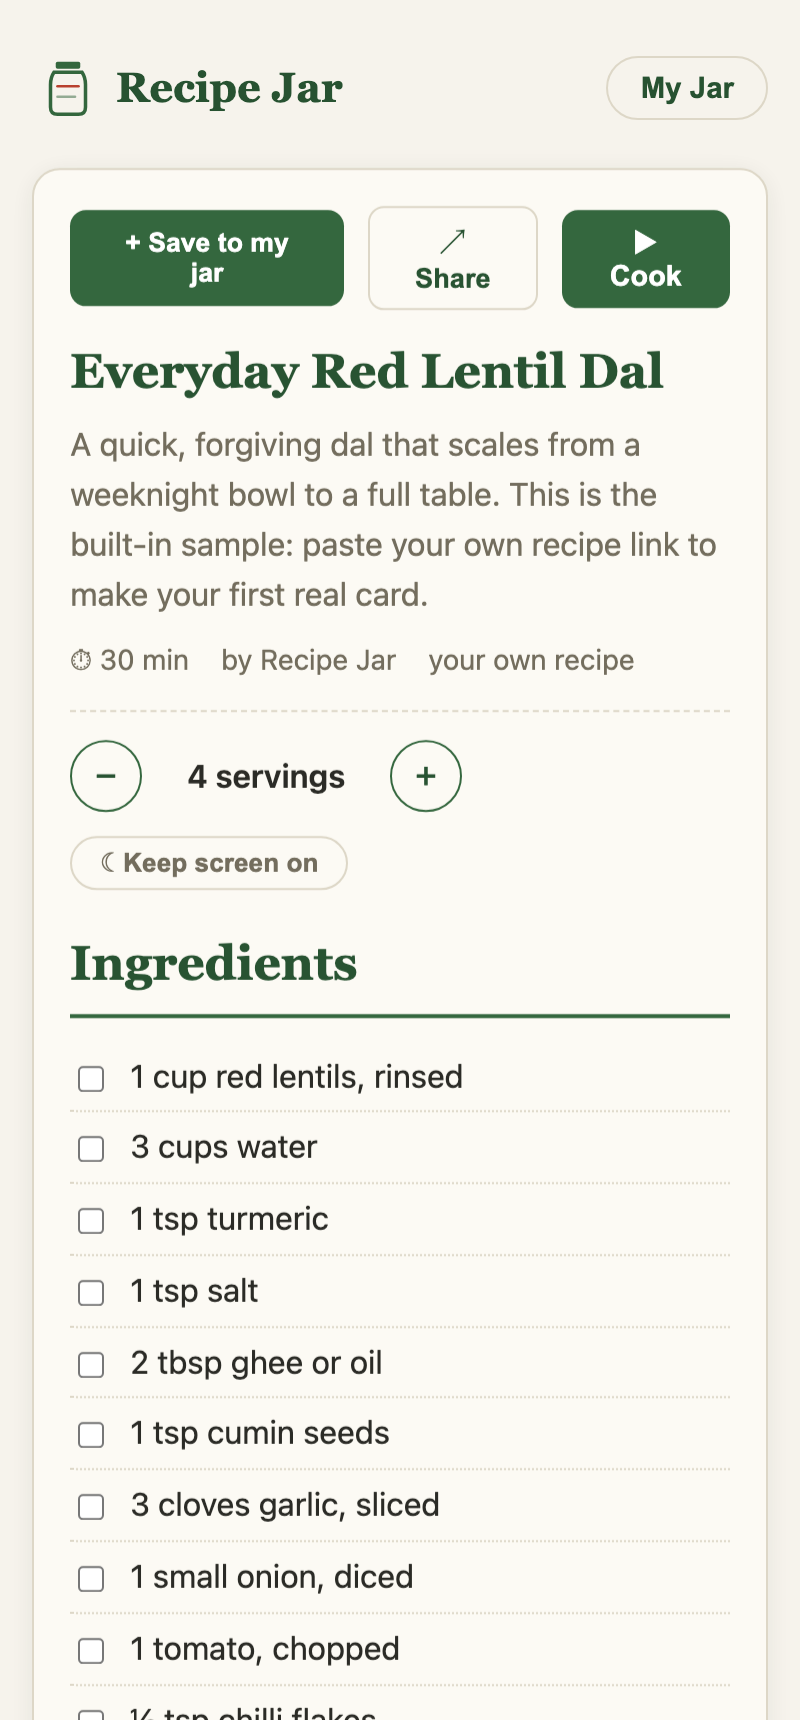
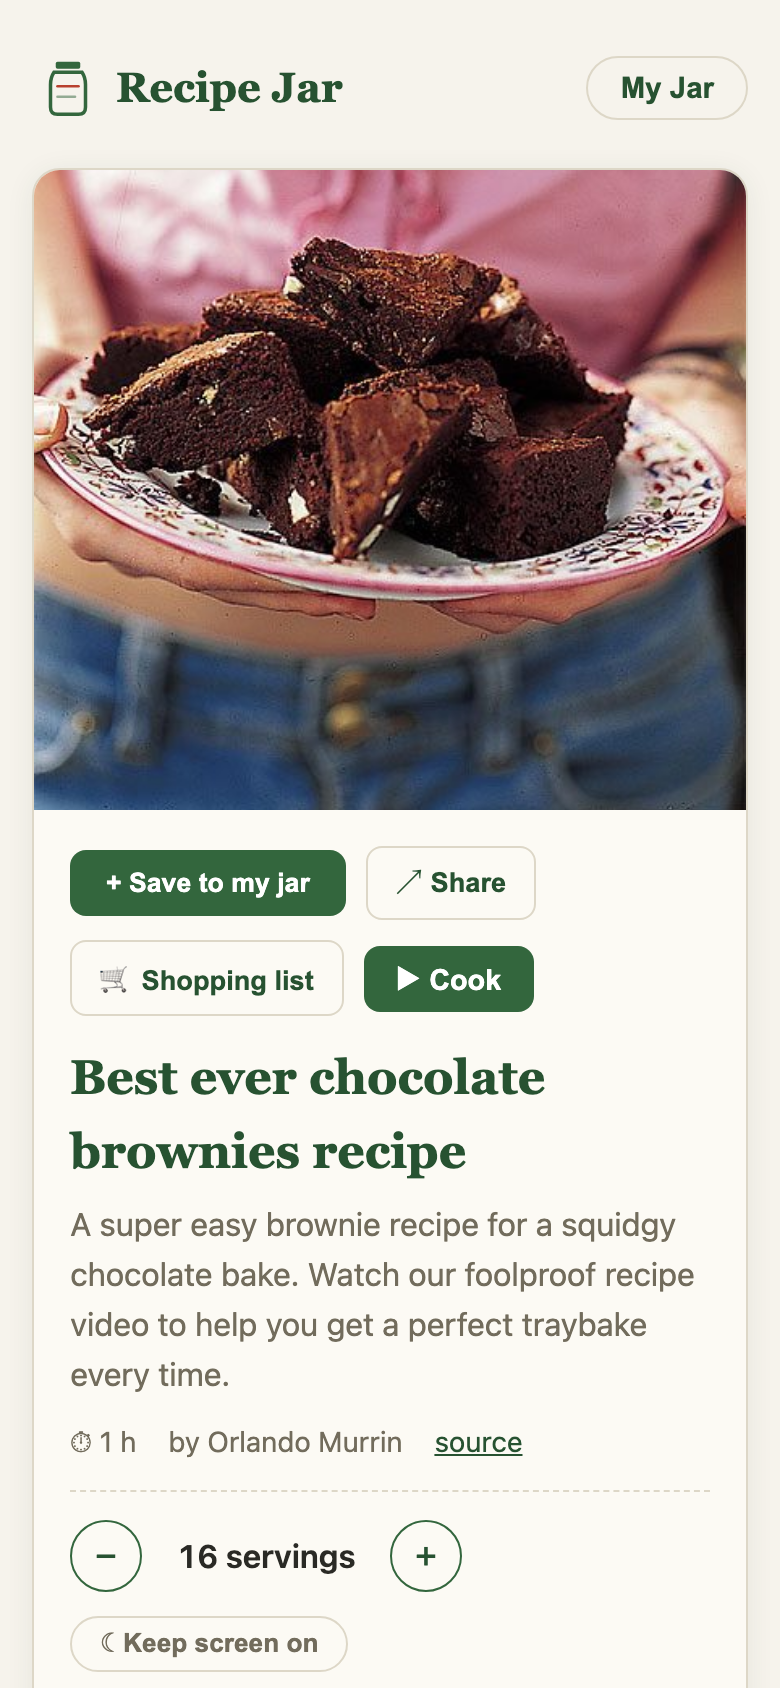
Refresh README for v1.7: dish search, shopping list, photo import
The README predated photo import, the merged shopping list, the multi-recipe
chooser, and dish search. Feature list brought up to reality, tech notes
updated (OCR lazy chunk, search adapters), and all screenshots reshot against
production v1.7.1: the hero shows the search-capable home, and the tile row
now leads with dish search and the merged shopping list (7 cloves garlic and
all).

diff --git a/README.md b/README.md
@@ -7,26 +7,27 @@
 [![PRs welcome](https://img.shields.io/badge/PRs-welcome-brightgreen.svg)](CONTRIBUTING.md)
 [![Local-first](https://img.shields.io/badge/local--first-no%20account-33663d.svg)](#how-its-private-and-free)
 
-Paste a recipe link, get a clean card: ingredients and steps, nothing else. Save
-as many recipes as you want. They live in your browser, on your device, not on a
-server. That is why it is free forever: there is nothing for anyone to pay for.
+Paste a recipe link, or just type a dish, and get a clean card: ingredients and
+steps, nothing else. Save as many recipes as you want. They live in your
+browser, on your device, not on a server. That is why it is free forever: there
+is nothing for anyone to pay for.
 
 No account. No ads. Works offline. Open source.
 
 👉 **[recipejar.app](https://recipejar.app)**
 
 <p align="center">
-  <a href="https://recipejar.app"><img src="docs/screenshots/hero.png" width="100%" alt="Recipe Jar: just the recipe, yours to keep. Paste a recipe link, get a clean card with no account and no ads." /></a>
+  <a href="https://recipejar.app"><img src="docs/screenshots/hero.png" width="100%" alt="Recipe Jar: just the recipe, yours to keep. Paste a recipe link or type a dish, and get a clean card with no account and no ads." /></a>
 </p>
 
 <p align="center">
-  <img src="launch/recipe-jar-demo.gif" width="22%" alt="Recipe jar demo" />
+  <img src="docs/screenshots/search.png" width="22%" alt="Type a dish like paneer tikka and pick from ranked results with photos, from five real recipe sites" />
   &nbsp;
   <img src="docs/screenshots/card.png" width="22%" alt="A clean recipe card — ingredients and steps, nothing else" />
   &nbsp;
-  <img src="docs/screenshots/cook.png" width="22%" alt="Step-by-step cook mode with a built-in timer" />
+  <img src="docs/screenshots/shop.png" width="22%" alt="One merged shopping list from several recipes — 2 cloves here and 3 there become 7 cloves garlic" />
   &nbsp;
-  <img src="docs/screenshots/jar.png" width="22%" alt="Your jar of saved recipes, filtered by tag" />
+  <img src="docs/screenshots/cook.png" width="22%" alt="Step-by-step cook mode with built-in timers" />
 </p>
 
 ## Why
@@ -39,12 +40,27 @@ honest version: paste a link, get the recipe, keep it. Forever. For nothing.
 ## What it does
 
 - **Paste any recipe URL** and get a clean card. Works with most recipe sites in
-  any language (it reads the structured recipe data sites already publish for Google).
+  any language (it reads the structured recipe data sites already publish for
+  Google). If a page carries several recipes, you pick the right one.
+- **Type a dish instead** — "dal tadka", "chicken curry" — and pick from ranked
+  results with photos, searched live across five recipe sites (BBC Good Food,
+  RecipeTin Eats, BBC Food, Budget Bytes, Veg Recipes of India) through the same
+  proxy, with no API keys and nothing stored.
 - **Scale servings** with real quantity math, including fractions and metric decimals.
+- **One shopping list for the whole week**: pick several saved recipes and the
+  same ingredient adds up across them ("2 cups flour" + "1 cup flour" = "3 cups
+  flour"), scaled per recipe. Tick things off in the store, share the rest.
+- **Cook mode**: one step at a time, wake lock, and "simmer 20 minutes" becomes
+  a tappable timer.
 - **Save unlimited recipes** to your own device (IndexedDB). Search them by name
-  or ingredient.
+  or ingredient, tag them, add notes, count your cooks.
+- **Add from a photo**: snap a printed recipe and on-device OCR fills in the
+  fields. The text engine is self-hosted and lazy-loaded; the image never
+  leaves your device.
 - **Type in your own** family recipes, or paste recipe text and let it auto-fill
   the fields.
+- **Share any recipe as a link** — the whole recipe is encoded in the URL, no
+  server copy.
 - **Blocked sites** (NYT Cooking, AllRecipes, Serious Eats) that block fetching:
   use the one-click bookmarklet that runs in your own browser.
 - **Back up the whole jar** to a single file, or copy it as text. Restore either way.
@@ -81,8 +97,11 @@ calories, or socialise. It does one daily chore well.
 
 Vite + Svelte + TypeScript, Dexie (IndexedDB), Workbox (offline). Static site on
 Cloudflare Pages with Pages Functions for the fetch proxy and a storage-less
-telemetry sink. ~70 KB gzipped. Recipes are parsed from JSON-LD
-(`schema.org/Recipe`), with a microdata fallback.
+telemetry sink. ~75 KB gzipped core; the OCR engine (tesseract.js, self-hosted)
+lazy-loads only when someone actually adds a photo. Recipes are parsed from
+JSON-LD (`schema.org/Recipe`) with a microdata fallback, and dish search is
+just more of the same: per-site adapters parse each site's own search page,
+fetched through the proxy, ranked client-side.
 
 ## Self-host
 
